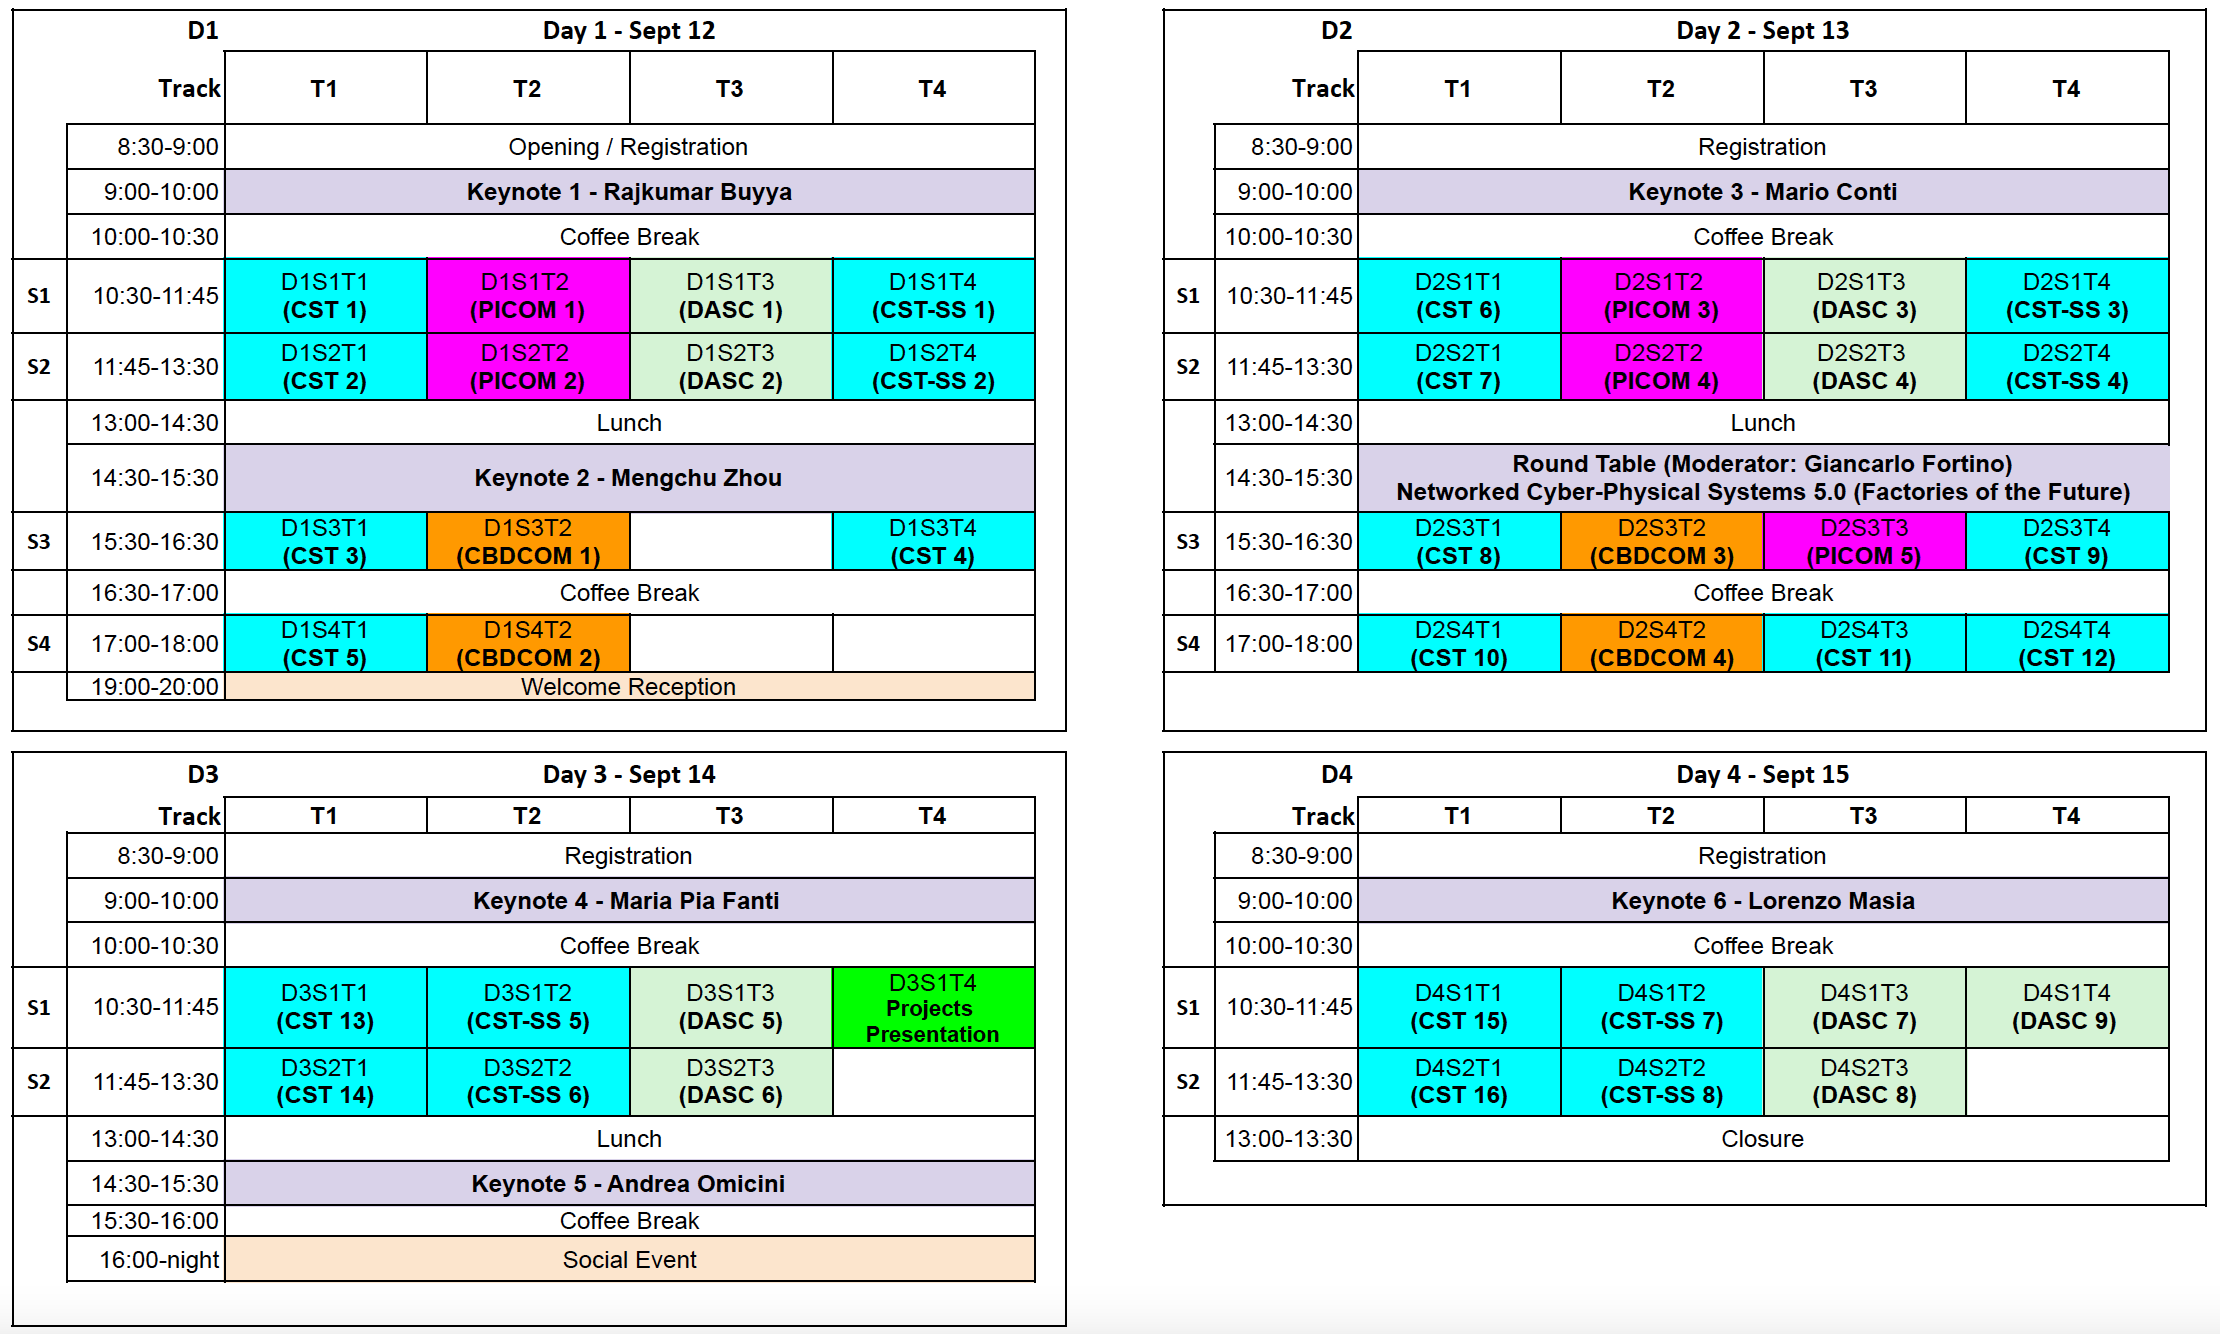
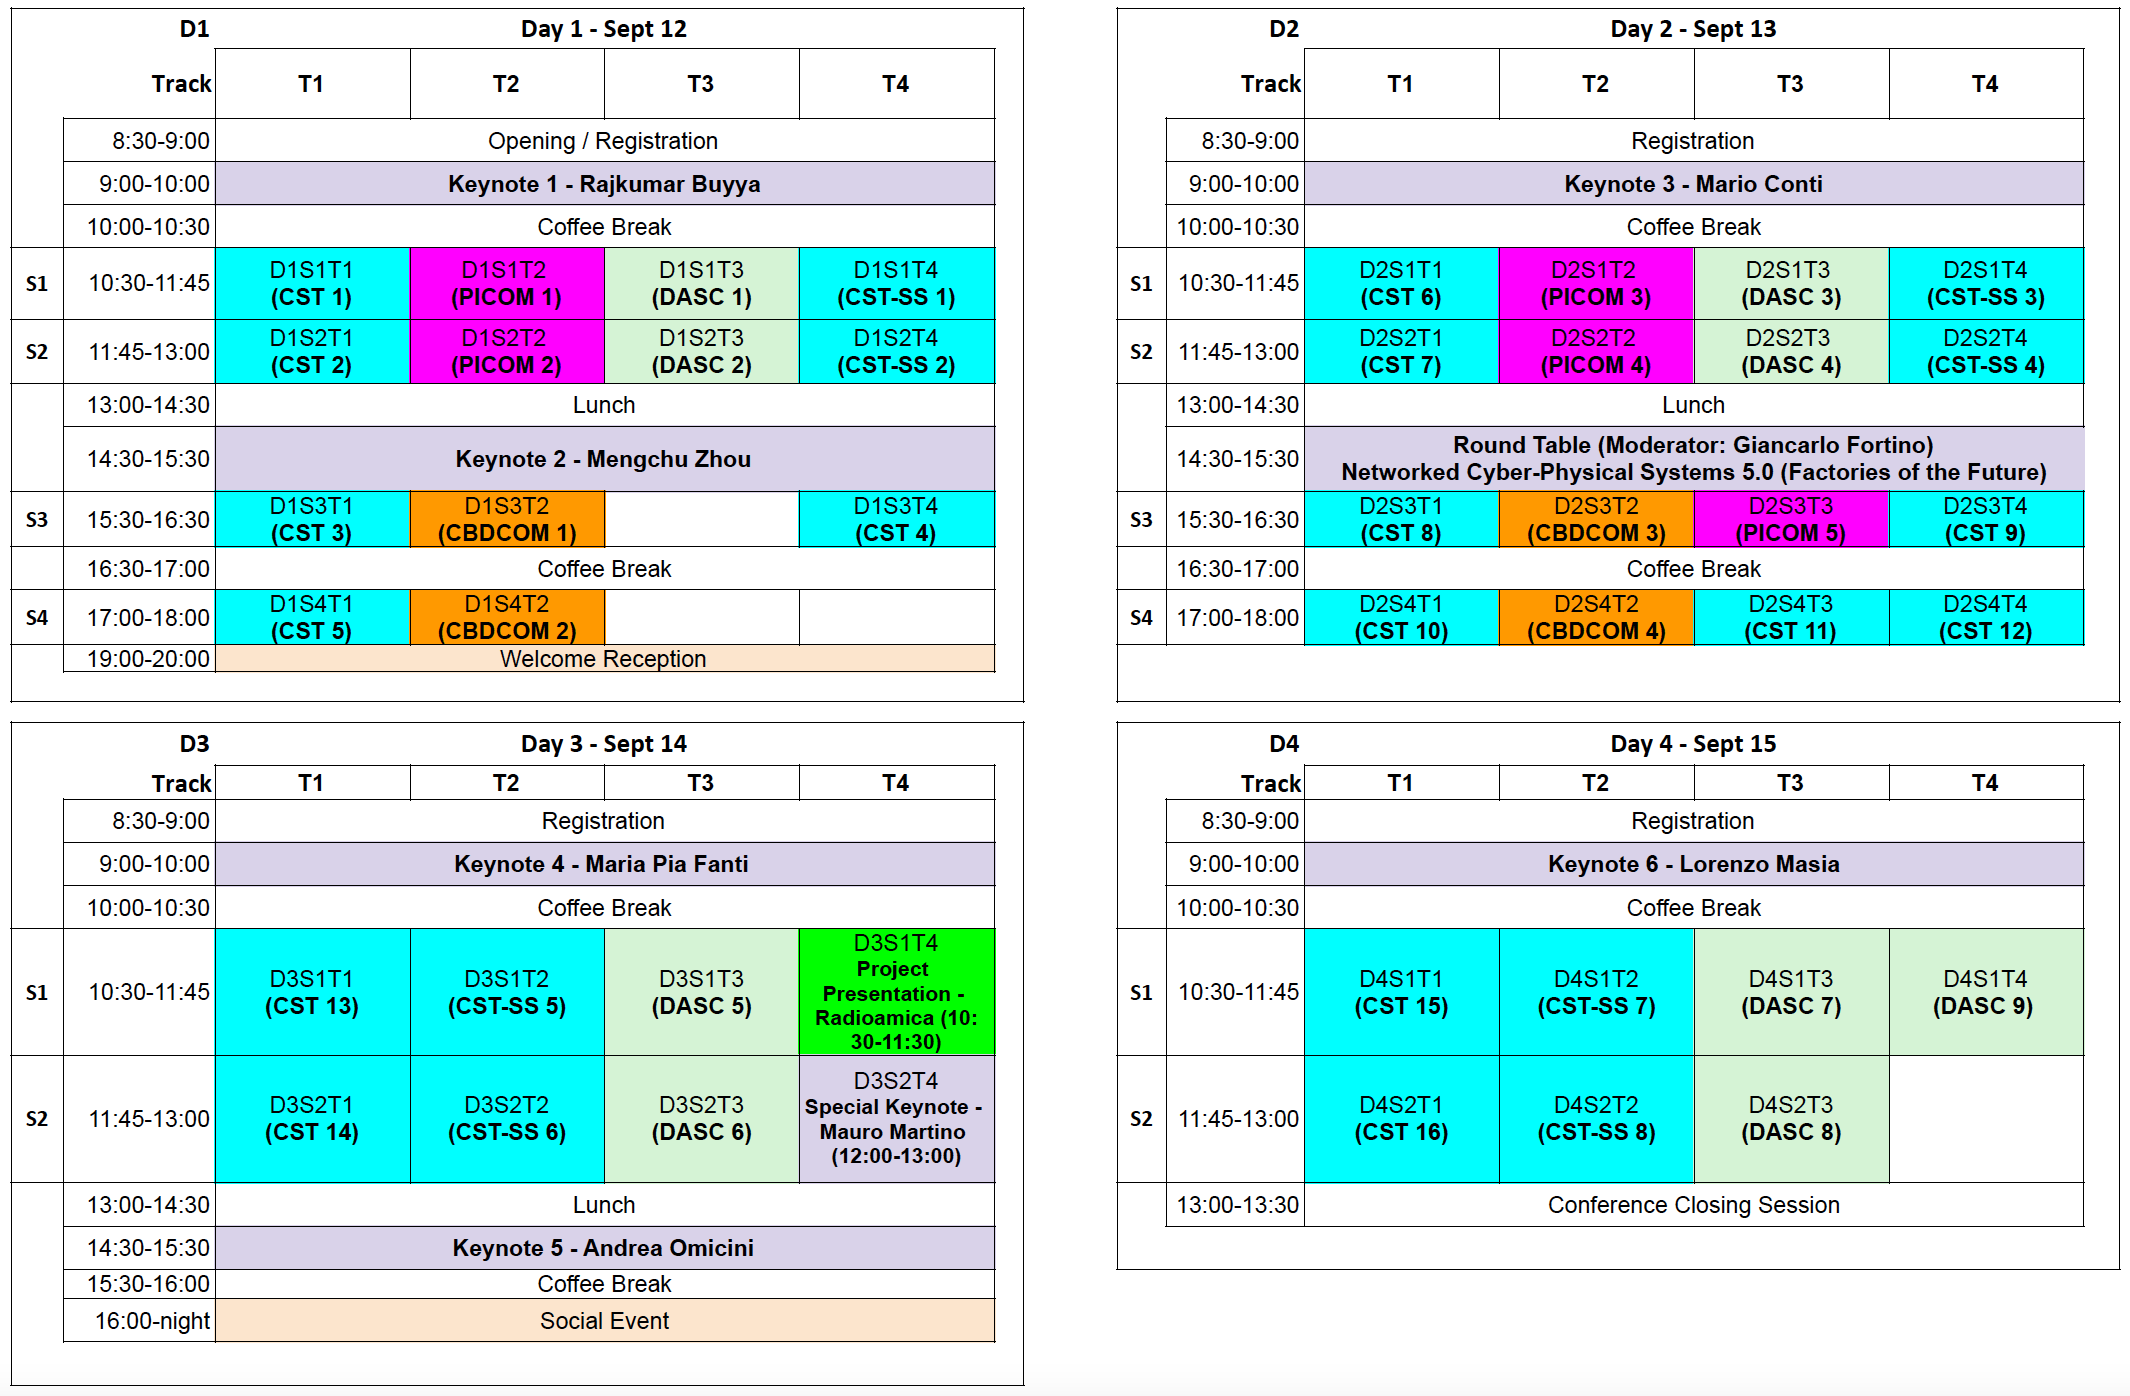
Program Agenda updated, added recent update news, added new keynote speaker Martino

diff --git a/_includes/sidebar.html b/_includes/sidebar.html
@@ -2,8 +2,8 @@
 
 <h4>Recent Updates</h4>
 
+<b>[Aug 5]</b> <font color=red>** NEW **</font> <a href="http://cyber-science.org/2022/program/"><u>Program Agenda available online!<br/>
 <b>[Jul 8]</b><a href="http://cyber-science.org/2022/registration/"><u> Registration</u></a> now open!<br/>
-<b>[Jul 5]</b> <font color=red>** NEW **</font> <a href="http://cyber-science.org/2022/cyberscitech/acceptworkshops/"><u>Late breaking innovation track</u></a> ** submissions open NOW on Easychair - <font color=red>hard deadline July 20th, 2022 !</font><br/>
 <b>[Dec 1]</b> <a href="http://cyber-science.org/2022/">Website published</a>
 <hr/>
   

diff --git a/_includes/sidebarcbd.html b/_includes/sidebarcbd.html
@@ -1,6 +1,7 @@
 <div class="col-md-4 mb-5">
 <h4>Recent Updates</h4>
 
+<b>[Aug 5]</b> <font color=red>** NEW **</font> <a href="http://cyber-science.org/2022/program/"><u>Program Agenda available online!<br/>
 <b>[Jul 8]</b><a href="http://cyber-science.org/2022/registration/"><u> Registration</u></a> now open!<br/>
 <b>[Dec 1]</b> <a href="http://cyber-science.org/2022/">Website published</a>
 <hr/>

diff --git a/_includes/sidebarcst.html b/_includes/sidebarcst.html
@@ -1,6 +1,7 @@
 <div class="col-md-4 mb-5">
 <h4>Recent Updates</h4>
 
+<b>[Aug 5]</b> <font color=red>** NEW **</font> <a href="http://cyber-science.org/2022/program/"><u>Program Agenda available online!<br/>
 <b>[Jul 8]</b><a href="http://cyber-science.org/2022/registration/"><u> Registration</u></a> now open!<br/>
 <b>[Dec 1]</b> <a href="http://cyber-science.org/2022/">Website published</a>
 <hr/>

diff --git a/_includes/sidebardasc.html b/_includes/sidebardasc.html
@@ -1,6 +1,7 @@
 <div class="col-md-4 mb-5">
 <h4>Recent Updates</h4>
 
+<b>[Aug 5]</b> <font color=red>** NEW **</font> <a href="http://cyber-science.org/2022/program/"><u>Program Agenda available online!<br/>
 <b>[Jul 8]</b><a href="http://cyber-science.org/2022/registration/"><u> Registration</u></a> now open!<br/>
 <b>[Dec 1]</b> <a href="http://cyber-science.org/2022/">Website published</a>
 <hr/>

diff --git a/_includes/sidebarpi.html b/_includes/sidebarpi.html
@@ -1,6 +1,7 @@
 <div class="col-md-4 mb-5">
 <h4>Recent Updates</h4>
 
+<b>[Aug 5]</b> <font color=red>** NEW **</font> <a href="http://cyber-science.org/2022/program/"><u>Program Agenda available online!<br/>
 <b>[Jul 8]</b><a href="http://cyber-science.org/2022/registration/"><u> Registration</u></a> now open!<br/>
 <b>[Dec 1]</b> <a href="http://cyber-science.org/2022/">Website published</a>
 <hr/>

diff --git a/_pages/keynote.md b/_pages/keynote.md
@@ -230,4 +230,27 @@ serving as Editor-in-Chief of Software: Practice and Experience, a long standing
 field established 50+ years ago. For further information on Dr.Buyya, please visit his cyberhome:
 www.buyya.com
 </p>
+
+
+<h4>Metaverse, web3, and the NFT market</h4>
+<img src="/2022/assets/images/martino.jpg" align="left" style="border:10px solid white" width="150"> Mauro Martino, Principal Research Scientist 
+<br/>
+MIT-IBM Watson AI Lab, Cambridge, MA, USA
+<p>
+<b>Abstract: </b>Non Fungible Tokens (NFTs) are digital assets that represent objects like art, collectible, and in-game items. They are traded online, often with cryptocurrency, and are generally encoded within smart contracts on a blockchain. In the Metaverse it is possible to collect avatars and game items, wear digital designer clothes and exhibit intangible works of art, all easily purchased in the form of NFTs. 
+We looked at 6.1 million trades of 4.7 million NFTs to learn about market traders, visual features and price prediction. During this talk, we will try to understand self-organizing communities in web3 networks, especially art-related communities. Is the decentralised NFT world really decentralised? Or is it re-creating the same structures we know in the traditional art market?
+</p>
+
+<p>
+<b>Biography: </b>Mauro Martino is a Principal Research Scientist at the MIT-IBM Watson AI Lab (Cambridge, MA, USA), where he founded and directs the Visual Artificial Intelligence Lab. He was formerly an Assistant Research Professor at Northeastern University working with Albert-Laszlo Barabasi at the Center for Complex Network Research and with David Lazer at the Institute for Quantitative Social Science (IQSS) at Harvard University.
+He obtained his PhD with a thesis in Urban Interaction Design within Carlo Ratti’s Senseable City Lab (Massachusetts Institute of Technology), and Polytechnic University of Milan.
+Mauro holds several patents and has co-authored over 40 scientific publications. He has created data visualization for the BBC, Scientific American, The New York Times, The Washington Post, Süddeutsche Zeitung, Der Spiegel, Le Figaro, Corriere della Sera, National Geographic, Popular Science, Wired. His work has been exhibited worldwide at venues such as the Venice Biennale, the Serpentine Gallery in London, the Ludwig Museum in Budapest, GAFTA in San Francisco, Lincoln Center in New York, the ZKM | Center for Art and Media in Karlsruhe (Germany), and his work is part of the permanent collection of the Ars Electronica Center in Linz.
+Mauro has been a presenter at TEDx Cambridge (2012) and TEDx Latvia (2016), his works have been featured in scientific journals such as Nature, Science, PNAS, and textbooks about AI Art and Data Visualization: «Possible Futures: Art scenarios and artificial intelligence» by Rebecca Pedrazzi, «Data Visualization» by Andy Kirk, «The Truthful Art» by Alberto Cairo, «The Best American Infographics» 2015 and 2016 editions.
+Mauro is an award-winning designer whose projects received the Gold Medal at the 2017 Vizzies Visualization Challenge by National Science Foundation, he has won several times the Webby Award, the Innovation by Design Award (by Fast Company), the Information is Beautiful Award.
+His art project AIPortraits (2018/2019) was the first generative GAN-based application to go viral worldwide, with over 8 million unique users per day. In 2018 he presented at NeurIPS the first collection of sculptures generated with a 3D GAN model he invented.
+Mauro Martino is Professor of Practice at Northeastern University, where he has been teaching the Artificial Intelligence for Creativity and Design course for several years. Each year he gives workshops and lectures on AI and Creativity at various universities, including MIT and Harvard University.
+</p>
+
+
+
 <hr/> 
